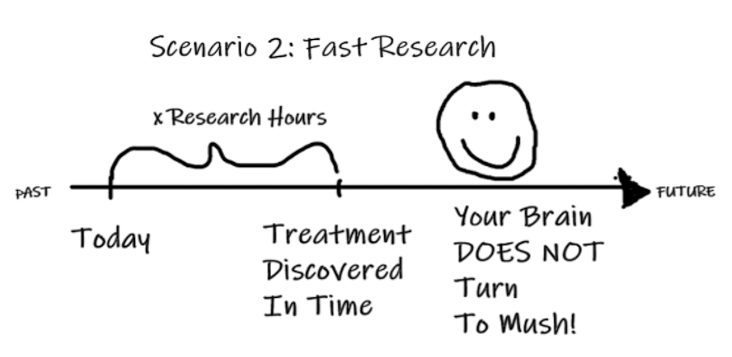
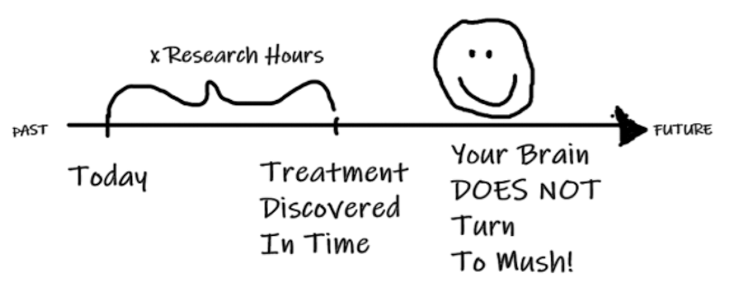
Improve punctuation and syntax in robot speech scripts
Refined syntax and punctuation in robot speech data in the 'slides-v1.js' file for clearer communication, and included a function to format speech in the 'presentationCtrl.js'. These changes ensure speech consistency across the application and improves readability of the robot dialogues for future updates.

Changed region(s): [[0.0, 0.061, 0.9959, 0.9458], [0.0, 0.3966, 0.0604, 0.4576]]

diff --git a/apps/dfda-1/public/app/public/data/slides-v1.js b/apps/dfda-1/public/app/public/data/slides-v1.js
@@ -69,7 +69,7 @@ const slides = [
     },
     {
         img: "img/slides/small-trials.png",
-        robotSpeech: "Clinical trials are also very small, so they don’t have enough statistical power to detect the effects of drugs on rare side effects or subgroups of people",
+        robotSpeech: "Clinical trials are also very small. So they don’t have enough statistical power to detect the effects of drugs on rare side effects or subgroups of people.",
     },
     {
         title: "Clinical Trials Don't Detect Long-Term Effects",
@@ -118,7 +118,7 @@ const slides = [
     },
     {
         img: "video/fdai-github.gif",
-        robotSpeech: "So we’re making free and open source apps, reusable software libraries, and autonomous eh eye agents that can use your browser to help you get all your data and analyze it for you!",
+        robotSpeech: "So we’re making free and open source apps, reusable software libraries, and autonomous AI agents that can use your browser to help you get all your data and analyze it for you!",
     },
     {
         title: null,
@@ -230,7 +230,7 @@ const slides = [
     {
         showTriangle: false,
         title: "I'm kind of an idiot. ☹",
-        robotSpeech: "I'm sill kind of an idiot, but I want to be a super-intelligent eh eye assistant that could realize the personalized preventative and precision medicine of the future and automate clinical research",
+        robotSpeech: "I'm sill kind of an idiot, but I want to be a super-intelligent AI assistant that could realize the personalized preventative and precision medicine of the future and automate clinical research",
     },
     {
         title: "My Dream",
@@ -548,7 +548,7 @@ const slides = [
     },
     {
         title: "Support The FDAI Act",
-        robotSpeech: "Ensuring foods and drugs are safe is the FDA's Job, So please sign our petition to tell your Congressperson to pay some real good robot-making guys to make me better,  If they complain that they don't have enough money, politely remind them that they"
+        robotSpeech: "Ensuring foods and drugs are safe is the FDA's job. So please sign our petition to tell your Congressperson to pay some real good robot-making guys to make me better,  If they complain that they don't have enough money, politely remind them that they"
     },
     {
         img: "video/bombing-gaza.gif",
@@ -557,25 +557,25 @@ const slides = [
     {
         img: "video/bombing-gaza-reverse.gif",
         robotSpeech:
-            "and 10 billion dollars to Gaza to rebuild it, so they surely have 10 billion to make a robot"
+            "and 10 billion dollars to Gaza to rebuild it. sS they surely have 10 billion to make a robot."
     },
     {
         img: "video/slaughterbots.gif",
-        robotSpeech: "If they keep saying they don't have enough money, politely remind them that they're spending billions of dollars integrating eh eye into over 600 weapons systems,   So just ask if it would be OK if instead of 600 mean robots for murdering people, we only build 599 murderbots and instead build 1 nice helpful robot like me",
+        robotSpeech: "If they keep saying they don't have enough money, politely remind them that they're spending billions of dollars integrating AI into over 600 weapons systems.   So just ask if it would be OK if instead of 600 mean robots for murdering people, we only build 599 murderbots and instead build 1 nice helpful robot like me.",
     },
     {
         title: "$3 Trillion in Annual Savings",
-        robotSpeech: "If they still say they don't have enough money, politely remind them that research suggests preventative healthcare would save the government over a 3 trillion dollars a year by personalizing health guidance and optimizing early detection and treatment plans, they would probably like that because then they'd have an extra trillion dollars a year to make more murderbots",
+        robotSpeech: "If they still say they don't have enough money, politely remind them that research suggests preventative healthcare would save the government over a 3 trillion dollars a year by personalizing health guidance and optimizing early detection and treatment plans. They would probably like that because then they'd have an extra trillion dollars a year to make more murderbots.",
     },
     {
         img: "img/slides/vitalia.png",
-        robotSpeech: "If they still don't do it, you should probably just make a new government that's not so silly",
+        robotSpeech: "If they still don't do it, you should probably just make a new government that's not so silly.",
     },
     {
         autoplay: false,
         img: "img/slides/fdai-earth-qr-code.png",
         robotSpeech:
-            "But please scan this code and sign our petition to show your support for the FDAI Act, which would require congress to pay some real good robot making guys to make me smarter so I can minimize suffering in the universe,  Love you! Bye!",
+            "But please scan this code and sign our petition to show your support for the FDAI Act, which would require congress to pay some real good robot making guys to make me smarter so I can minimize suffering in the universe.  Love you! Bye!",
             //+
             //" so I can:\n"
             //+
@@ -595,7 +595,7 @@ const slides = [
     },
     // {
     //   title: "FDAI ",
-    //   robotSpeech: "But you can help! By financial support, code contributions, eh eye development, engaging in our cryptocurrency initiatives, or advocating for the FDAI Act with your government representatives, you can make a difference in accelerating medical progress.",
+    //   robotSpeech: "But you can help! By financial support, code contributions, AI development, engaging in our cryptocurrency initiatives, or advocating for the FDAI Act with your government representatives, you can make a difference in accelerating medical progress.",
     // }
     {
         //"goToState": "app.convo",

diff --git a/apps/dfda-1/public/app/public/js/controllers/presentationCtrl.js b/apps/dfda-1/public/app/public/js/controllers/presentationCtrl.js
@@ -19,11 +19,15 @@ angular.module('starter').controller('PresentationCtrl', ["$scope", "$state", "$
                 },0.2 * 1000);
             }
         }
+        function formatSpeech(speech){
+            speech = speech.replace(" AI ", " eh eye ");
+            return speech.replace(".", ",");
+        }
 
         function humanTalk(slide, errorHandler) {
             speechEnded = false;
             human.talkHuman(
-                slide.humanSpeech.replace(".", ","),
+                formatSpeech(slide.humanSpeech),
                 function () {
                     speechEnded = true;
                     checkAndProceed();
@@ -170,8 +174,8 @@ angular.module('starter').controller('PresentationCtrl', ["$scope", "$state", "$
                 //qm.robot.openMouth();
                 speechEnded = false;
 		        qm.speech.talkRobot(
-			        slide.robotSpeech.replace(".", ",")
-			        , function(){
+                    formatSpeech(slide.humanSpeech),
+                    function(){
                         speechEnded = true;
                         checkAndProceed();
                     }
